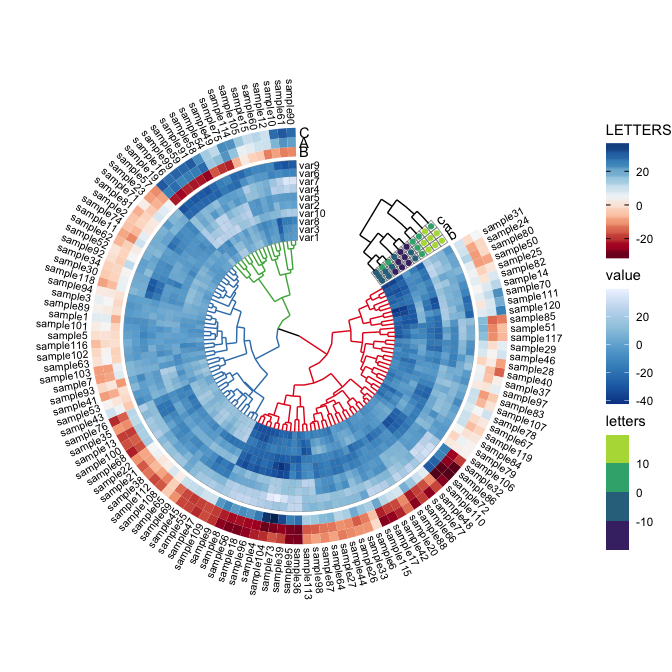
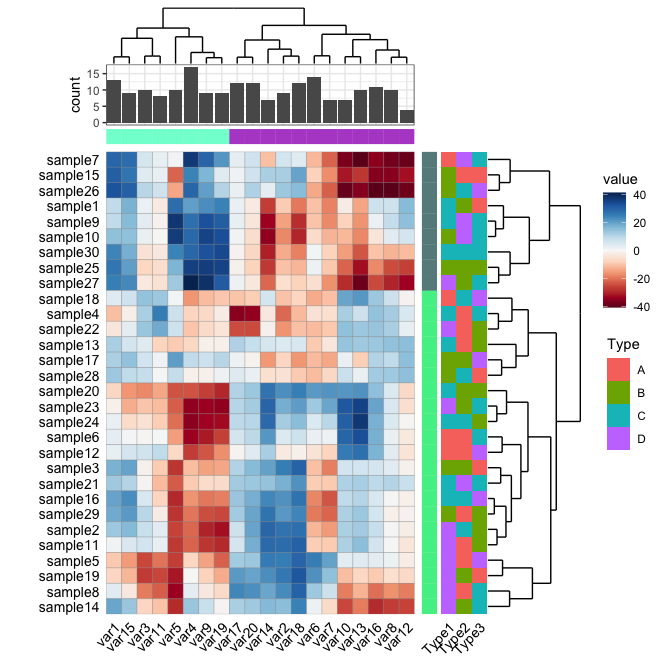
updates readme

diff --git a/readme.md b/readme.md
@@ -19,6 +19,7 @@ devtools::install_github("houyunhuang/ggcor")
 ``` r
 library(ggplot2)
 library(ggcor)
+set_scale()
 quickcor(mtcars) + geom_square()
 ```
 
@@ -43,6 +44,7 @@ quickcor(mtcars, cor.test = TRUE) +
 
 ``` r
 library(dplyr)
+#> Warning: package 'dplyr' was built under R version 3.6.2
 data("varechem", package = "vegan")
 data("varespec", package = "vegan")
 
@@ -82,6 +84,7 @@ rand_correlate(100, 8) %>% ## require ambient packages
   anno_col_tree() +
   set_p_xaxis() +
   set_p_yaxis()
+#> Warning: Removed 8 rows containing missing values (geom_text).
 ```
 
 <img src="man/figures/README-unnamed-chunk-2-1.png" width="100%" style="display: block; margin: auto;" />
@@ -89,23 +92,23 @@ rand_correlate(100, 8) %>% ## require ambient packages
 ## General heatmap
 
 ``` r
-dd <- rand_dataset(10, 120) %>% 
+d1 <- rand_dataset(20, 30) %>% 
   gcor_tbl(cluster = TRUE)
-dd1 <- rand_dataset(3, 120, col.names = LETTERS[1:3]) %>% 
-  gcor_tbl(cluster = TRUE, "LETTERS")
-dd2 <- rand_dataset(10, 3, row.names = letters[1:3]) %>% 
-  gcor_tbl(cluster = TRUE, "letters")
-quickcor(dd, inner = 1.2, outer = 0.8, open = 60, circular = TRUE) +
-  geom_colour(aes(fill = value), colour = NA) +
-  anno_row_heat(dd1, aes(fill0 = LETTERS), width = 1.2) +
-  anno_col_heat(dd2, aes(colour = letters), height = 1.2, geom = "point") +
-  anno_row_tree(bcols = c("#E41A1C", "#377EB8", "#4DAF4A")) +
-  anno_col_tree() +
-  set_p_xaxis(size = 2.8) +
-  set_p_yaxis(size = 2.8) +
-  scale_fill_distiller() +
-  scale_fill0_gradientn(colours = red_blue()) +
-  scale_colour_viridis_b()
+p <- matrix(sample(LETTERS[1:4], 90, replace = TRUE), nrow = 30,
+             dimnames = list(paste0("sample", 1:30), paste0("Type", 1:3))) %>% 
+  gcor_tbl(name = "Type", row.order = d1) %>% 
+  qheatmap(aes(fill = Type)) + coord_fixed() + remove_y_axis()
+d2 <- data.frame(x = sample(paste0("var", 1:20), 200, replace = TRUE))
+
+set_scale()
+quickcor(d1) +
+  geom_colour(aes(fill = value)) +
+  anno_hc_bar(width = 1) +
+  anno_row_custom(p) +
+  anno_row_tree() +
+  anno_hc_bar(pos = "top") +
+  anno_bar(d2, aes(x = x), height = 0.12) +
+  anno_col_tree(height = 0.12)
 ```
 
 <img src="man/figures/README-unnamed-chunk-3-1.png" width="100%" style="display: block; margin: auto;" />
